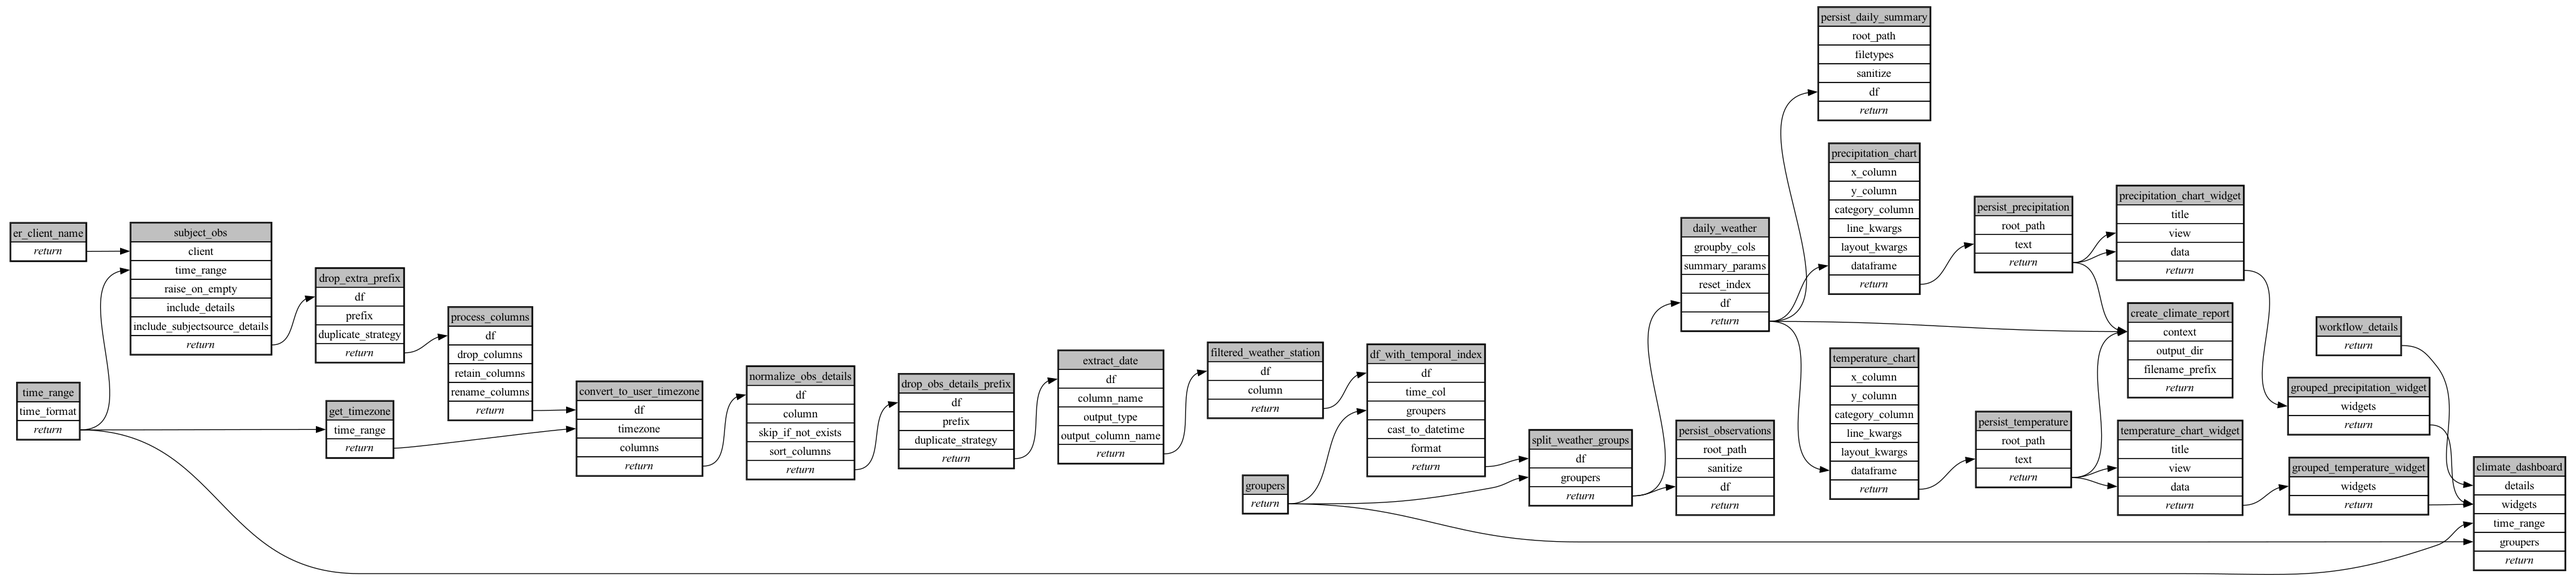
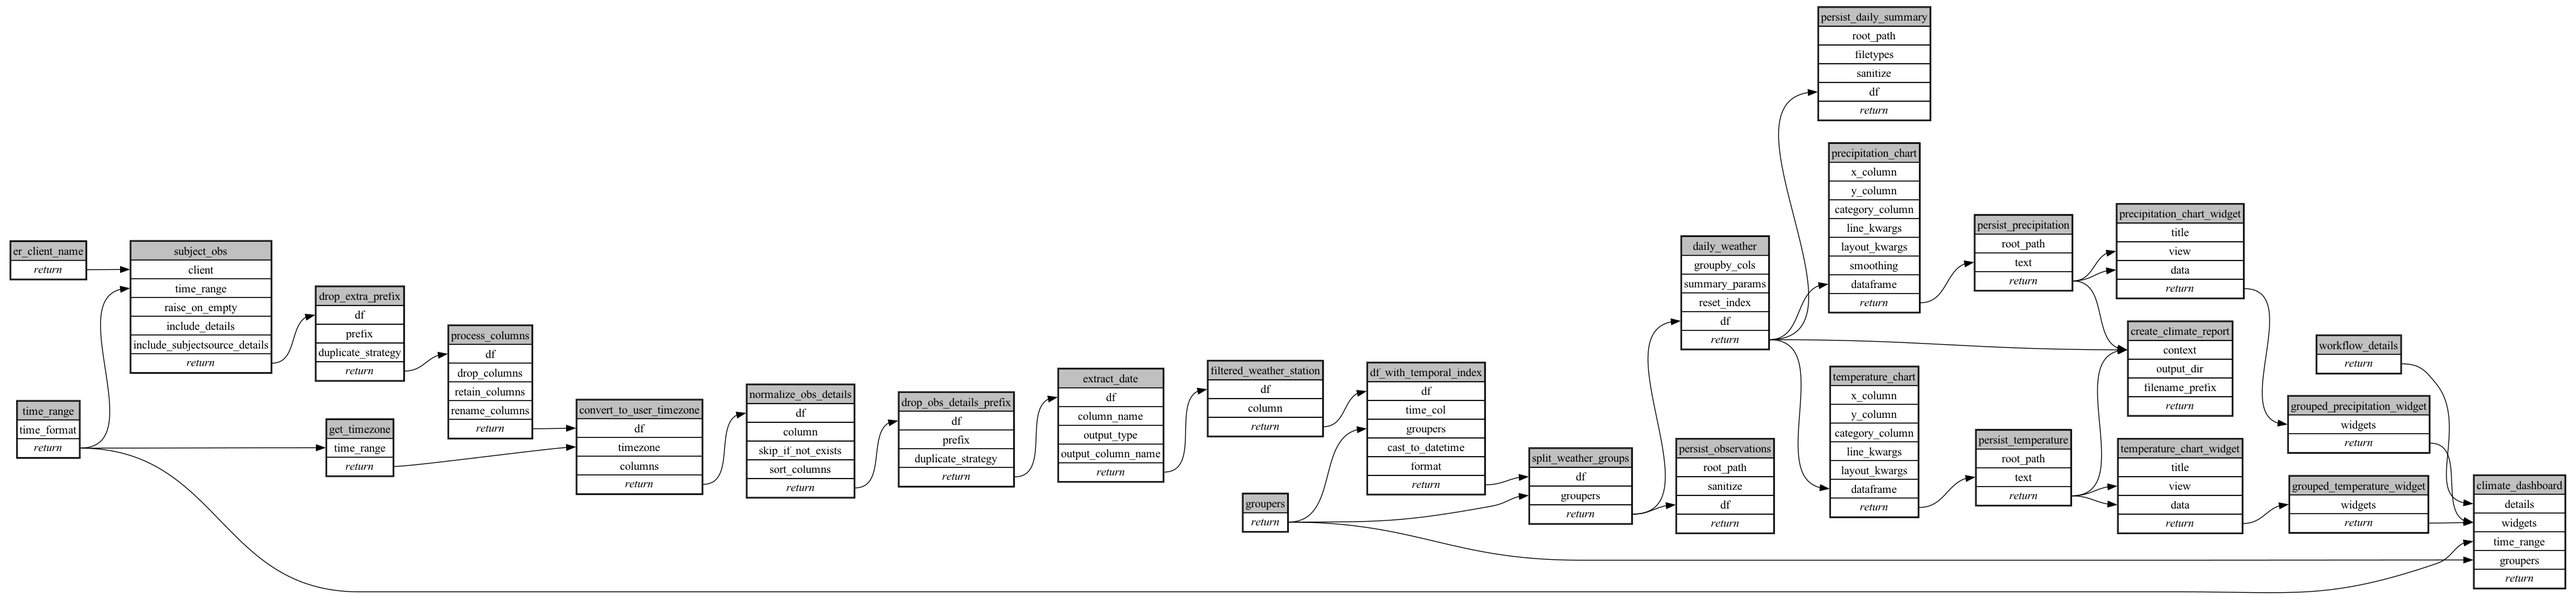
add smoothing config

Changed region(s): [[0.0, 0.0, 0.9947, 0.9989], [0.1243, 0.9384, 0.9014, 0.9989], [0.5595, 0.9081, 0.5906, 0.9384]]

diff --git a/ecoscope-workflows-climate-monitoring-workflow/ecoscope_workflows_climate_monitoring_workflow/formdata.py b/ecoscope-workflows-climate-monitoring-workflow/ecoscope_workflows_climate_monitoring_workflow/formdata.py
@@ -5,7 +5,7 @@ from __future__ import annotations
 
 from datetime import datetime
 from enum import Enum
-from typing import List, Optional, Union
+from typing import List, Literal, Optional, Union
 
 from pydantic import BaseModel, ConfigDict, Field, RootModel
 
@@ -118,6 +118,38 @@ class ValueGrouper(RootModel[str]):
     root: str = Field(..., title="Category")
 
 
+class Method(str, Enum):
+    spline = "spline"
+
+
+class SmoothingConfig(BaseModel):
+    method: Literal["spline"] = Field(
+        "spline",
+        description="The smoothing method to apply. Currently supports 'spline'.",
+        title="Method",
+    )
+    y_min: Optional[float] = Field(
+        None,
+        description="The minimum value to clamp smoothed values to. Useful for data like precipitation where values should not go below zero.",
+        title="Y Min",
+    )
+    y_max: Optional[float] = Field(
+        None,
+        description="The maximum value to clamp smoothed values to.",
+        title="Y Max",
+    )
+    resolution: Optional[int] = Field(
+        10,
+        description="The resolution multiplier for interpolation points. The number of output points will be len(x) * resolution.",
+        title="Resolution",
+    )
+    degree: Optional[int] = Field(
+        3,
+        description="The degree of the spline. 1: Linear, 2: Quadratic, 3: Cubic (recommended), 4-5: Higher degree.",
+        title="Degree",
+    )
+
+
 class TimeRange(BaseModel):
     model_config = ConfigDict(
         extra="forbid",
@@ -149,6 +181,17 @@ class Groupers(BaseModel):
     )
 
 
+class TemperatureChart(BaseModel):
+    model_config = ConfigDict(
+        extra="forbid",
+    )
+    smoothing: Optional[SmoothingConfig] = Field(
+        None,
+        description="Configuration for line smoothing. When set, creates a smoothed line with original data point markers.",
+        title="Smoothing",
+    )
+
+
 class FormData(BaseModel):
     model_config = ConfigDict(
         extra="forbid",
@@ -176,6 +219,9 @@ class FormData(BaseModel):
     )
     persist_daily_summary: Optional[PersistDailySummary] = Field(
         None, title="Persist Daily Summary"
+    )
+    temperature_chart: Optional[TemperatureChart] = Field(
+        None, title="Draw Temperature Chart"
     )
     create_climate_report: Optional[CreateClimateReport] = Field(
         None, title="Create Climate Report"

diff --git a/ecoscope-workflows-climate-monitoring-workflow/ecoscope_workflows_climate_monitoring_workflow/params.py b/ecoscope-workflows-climate-monitoring-workflow/ecoscope_workflows_climate_monitoring_workflow/params.py
@@ -5,7 +5,7 @@ from __future__ import annotations
 
 from datetime import datetime
 from enum import Enum
-from typing import List, Optional, Union
+from typing import List, Literal, Optional, Union
 
 from pydantic import BaseModel, ConfigDict, Field, RootModel
 
@@ -118,6 +118,38 @@ class ValueGrouper(RootModel[str]):
     root: str = Field(..., title="Category")
 
 
+class Method(str, Enum):
+    spline = "spline"
+
+
+class SmoothingConfig(BaseModel):
+    method: Literal["spline"] = Field(
+        "spline",
+        description="The smoothing method to apply. Currently supports 'spline'.",
+        title="Method",
+    )
+    y_min: Optional[float] = Field(
+        None,
+        description="The minimum value to clamp smoothed values to. Useful for data like precipitation where values should not go below zero.",
+        title="Y Min",
+    )
+    y_max: Optional[float] = Field(
+        None,
+        description="The maximum value to clamp smoothed values to.",
+        title="Y Max",
+    )
+    resolution: Optional[int] = Field(
+        10,
+        description="The resolution multiplier for interpolation points. The number of output points will be len(x) * resolution.",
+        title="Resolution",
+    )
+    degree: Optional[int] = Field(
+        3,
+        description="The degree of the spline. 1: Linear, 2: Quadratic, 3: Cubic (recommended), 4-5: Higher degree.",
+        title="Degree",
+    )
+
+
 class TimeRange(BaseModel):
     model_config = ConfigDict(
         extra="forbid",
@@ -149,6 +181,17 @@ class Groupers(BaseModel):
     )
 
 
+class TemperatureChart(BaseModel):
+    model_config = ConfigDict(
+        extra="forbid",
+    )
+    smoothing: Optional[SmoothingConfig] = Field(
+        None,
+        description="Configuration for line smoothing. When set, creates a smoothed line with original data point markers.",
+        title="Smoothing",
+    )
+
+
 class Params(BaseModel):
     model_config = ConfigDict(
         extra="forbid",
@@ -176,6 +219,9 @@ class Params(BaseModel):
     )
     persist_daily_summary: Optional[PersistDailySummary] = Field(
         None, title="Persist Daily Summary"
+    )
+    temperature_chart: Optional[TemperatureChart] = Field(
+        None, title="Draw Temperature Chart"
     )
     create_climate_report: Optional[CreateClimateReport] = Field(
         None, title="Create Climate Report"

diff --git a/ecoscope-workflows-climate-monitoring-workflow/ecoscope_workflows_climate_monitoring_workflow/dags/jupytext.py b/ecoscope-workflows-climate-monitoring-workflow/ecoscope_workflows_climate_monitoring_workflow/dags/jupytext.py
@@ -574,10 +574,11 @@ precipitation_chart = (
         line_kwargs={"shape": "spline"},
         layout_kwargs={
             "xaxis": {"title": "Date"},
-            "yaxis": {"title": "Precipitation (mm)", "range": [0, None]},
+            "yaxis": {"title": "Precipitation (mm)"},
             "legend_title": "Weather Station",
             "hovermode": "closest",
         },
+        smoothing={"method": "spline", "y_min": 0},
         **precipitation_chart_params,
     )
     .mapvalues(argnames=["dataframe"], argvalues=daily_weather)
@@ -662,6 +663,7 @@ grouped_precipitation_widget = (
 # parameters
 
 temperature_chart_params = dict(
+    smoothing=...,
     widget_id=...,
 )
 

diff --git a/ecoscope-workflows-climate-monitoring-workflow/ecoscope_workflows_climate_monitoring_workflow/dags/run_async.py b/ecoscope-workflows-climate-monitoring-workflow/ecoscope_workflows_climate_monitoring_workflow/dags/run_async.py
@@ -397,13 +397,13 @@ def main(params: Params):
                     },
                     "yaxis": {
                         "title": "Precipitation (mm)",
-                        "range": [
-                            0,
-                            None,
-                        ],
                     },
                     "legend_title": "Weather Station",
                     "hovermode": "closest",
+                },
+                "smoothing": {
+                    "method": "spline",
+                    "y_min": 0,
                 },
             }
             | (params_dict.get("precipitation_chart") or {}),

diff --git a/ecoscope-workflows-climate-monitoring-workflow/ecoscope_workflows_climate_monitoring_workflow/dags/run_async_mock_io.py b/ecoscope-workflows-climate-monitoring-workflow/ecoscope_workflows_climate_monitoring_workflow/dags/run_async_mock_io.py
@@ -411,13 +411,13 @@ def main(params: Params):
                     },
                     "yaxis": {
                         "title": "Precipitation (mm)",
-                        "range": [
-                            0,
-                            None,
-                        ],
                     },
                     "legend_title": "Weather Station",
                     "hovermode": "closest",
+                },
+                "smoothing": {
+                    "method": "spline",
+                    "y_min": 0,
                 },
             }
             | (params_dict.get("precipitation_chart") or {}),

diff --git a/ecoscope-workflows-climate-monitoring-workflow/ecoscope_workflows_climate_monitoring_workflow/dags/run_sequential.py b/ecoscope-workflows-climate-monitoring-workflow/ecoscope_workflows_climate_monitoring_workflow/dags/run_sequential.py
@@ -323,10 +323,11 @@ def main(params: Params):
             line_kwargs={"shape": "spline"},
             layout_kwargs={
                 "xaxis": {"title": "Date"},
-                "yaxis": {"title": "Precipitation (mm)", "range": [0, None]},
+                "yaxis": {"title": "Precipitation (mm)"},
                 "legend_title": "Weather Station",
                 "hovermode": "closest",
             },
+            smoothing={"method": "spline", "y_min": 0},
             **(params_dict.get("precipitation_chart") or {}),
         )
         .mapvalues(argnames=["dataframe"], argvalues=daily_weather)

diff --git a/ecoscope-workflows-climate-monitoring-workflow/ecoscope_workflows_climate_monitoring_workflow/dags/run_sequential_mock_io.py b/ecoscope-workflows-climate-monitoring-workflow/ecoscope_workflows_climate_monitoring_workflow/dags/run_sequential_mock_io.py
@@ -337,10 +337,11 @@ def main(params: Params):
             line_kwargs={"shape": "spline"},
             layout_kwargs={
                 "xaxis": {"title": "Date"},
-                "yaxis": {"title": "Precipitation (mm)", "range": [0, None]},
+                "yaxis": {"title": "Precipitation (mm)"},
                 "legend_title": "Weather Station",
                 "hovermode": "closest",
             },
+            smoothing={"method": "spline", "y_min": 0},
             **(params_dict.get("precipitation_chart") or {}),
         )
         .mapvalues(argnames=["dataframe"], argvalues=daily_weather)

diff --git a/ecoscope-workflows-climate-monitoring-workflow/README.md b/ecoscope-workflows-climate-monitoring-workflow/README.md
@@ -5,8 +5,8 @@
 
 ```yaml
 # fingerprint:
-artifacts_sha256_basic: a20a7591d6b4605feacc00d2a80ffacb5bf67f708ce260ff95217246af8dd324
-artifacts_sha256_strict: 2706b72dc4acecad7a795ef25025d5995ee726e9a9d75c30686acd937cba7598
+artifacts_sha256_basic: 10d49f6d7bdc4798e1429affc6f162b458e1a5a16b99b03232102869823164c8
+artifacts_sha256_strict: bf2fe5fd7c84f5a5d4ee31ff8afacd93ee9b6ff063c29f5cff6b6a802e58b4db
 installed_requirements:
 - channel: https://repo.prefix.dev/ecoscope-workflows/
   name: ecoscope-workflows-core
@@ -17,8 +17,8 @@ installed_requirements:
 - channel: https://repo.prefix.dev/ecoscope-workflows-custom/
   name: ecoscope-workflows-ext-custom
   version: {version: ==0.0.19}
-params_sha256: d389f0951f77c390043d1e522d68cb667ea0cd2feb6e4edd60f86f9e583b6e33
-spec_sha256: 7822923cdcc4aeca4ab970a3842e5e681ab67cdb4ca88979a3a44209a5271086
+params_sha256: 98df4401645230adc251c783bd139ad316a849c35f24e4ce1fe3092b51fef401
+spec_sha256: 9942cce51a428f6909224c855f7d2b1b47b5f93419222a1fb4addf10e0fdb6de
 
 ```
 
